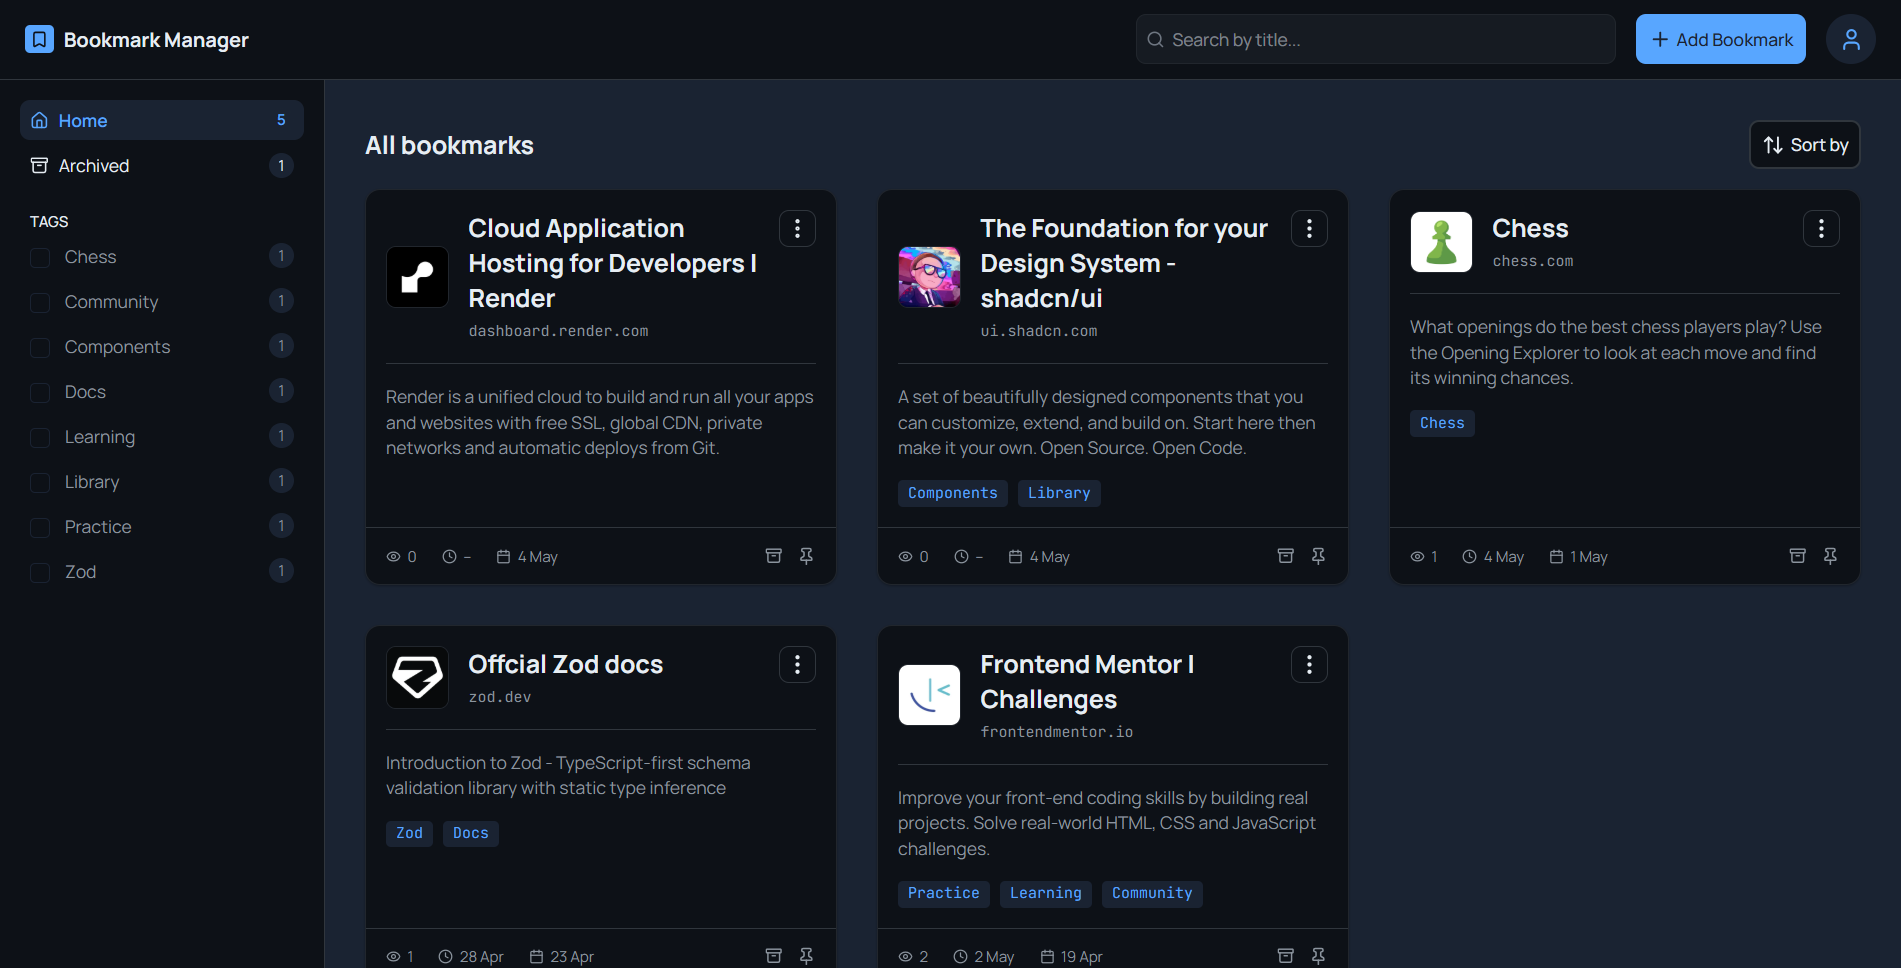
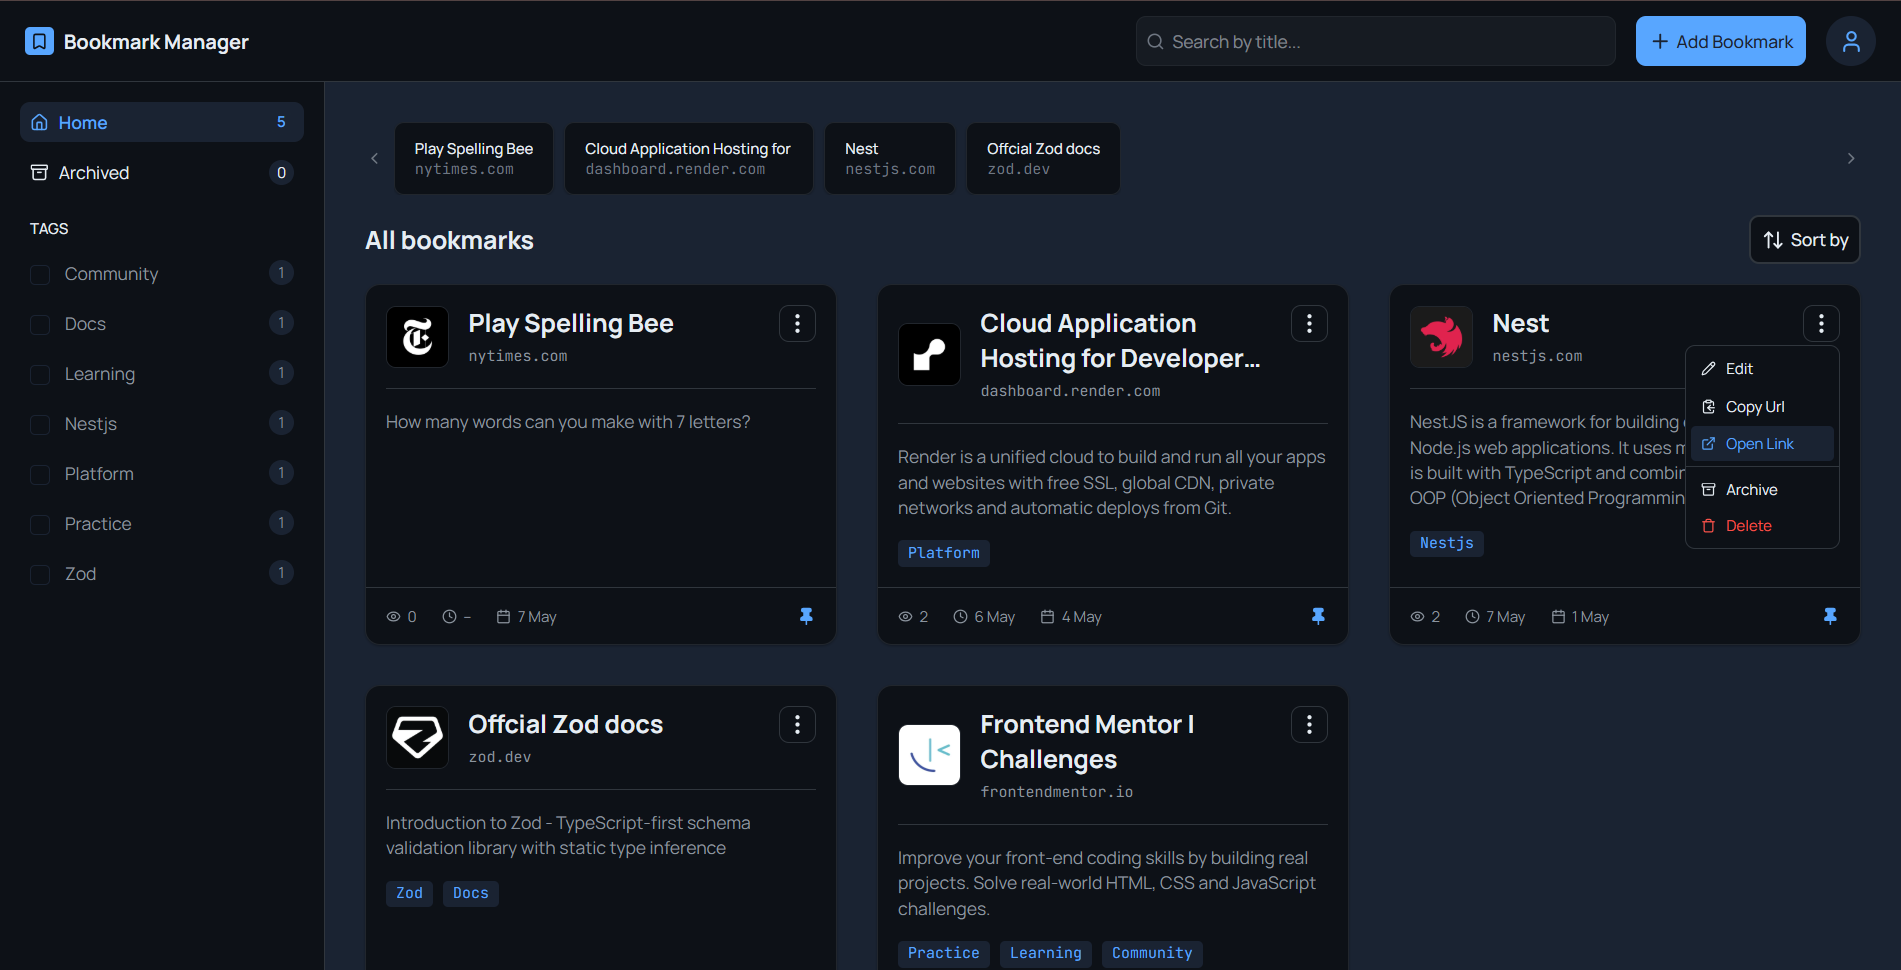
feat: add metadata and Open Graph tags

diff --git a/frontend/index.html b/frontend/index.html
@@ -2,13 +2,42 @@
 <html lang="en">
   <head>
     <meta charset="UTF-8" />
-    <link rel="shortcut icon" href="/favicon_io/favicon.ico" type="image/x-icon">
+    <title>Bookmark Manager</title>
+    <meta 
+      name="description"
+      content="Save, organize and manage bookmarks with tags, filters and metadata scraping."
+    />
+    
     <meta name="viewport" content="width=device-width, initial-scale=1.0" />
+
+    <meta property="og:title" content="Bookmark Manager" />
+
+    <meta
+      property="og:description"
+      content="Save, organize and manage bookmarks with tags, filters and metadata scraping."
+    />
+
+    <meta
+      property="og:image"
+      content="https://bookmark-manager-db.vercel.app/preview.png"
+    />
+
+    <meta
+      property="og:url"
+      content="https://bookmark-manager-db.vercel.app"
+    />
+
+    <meta property="og:type" content="website" />
+
+    
+    <link rel="shortcut icon" href="/favicon_io/favicon.ico" type="image/x-icon">
+    
+    <link rel="canonical" href="https://bookmark-manager-db.vercel.app" />
+    
     <link rel="preconnect" href="https://fonts.googleapis.com">
     <link rel="preconnect" href="https://fonts.gstatic.com" crossorigin>
     <link rel="preload" as="style" href="https://fonts.googleapis.com/css2?family=JetBrains+Mono:ital,wght@0,100..800;1,100..800&family=Manrope:wght@200..800&display=swap">
     <link href="https://fonts.googleapis.com/css2?family=JetBrains+Mono:ital,wght@0,100..800;1,100..800&family=Manrope:wght@200..800&display=swap" rel="stylesheet">
-    <title>Bookmark Manager</title>
   </head>
   <body>
     <div id="root"></div>